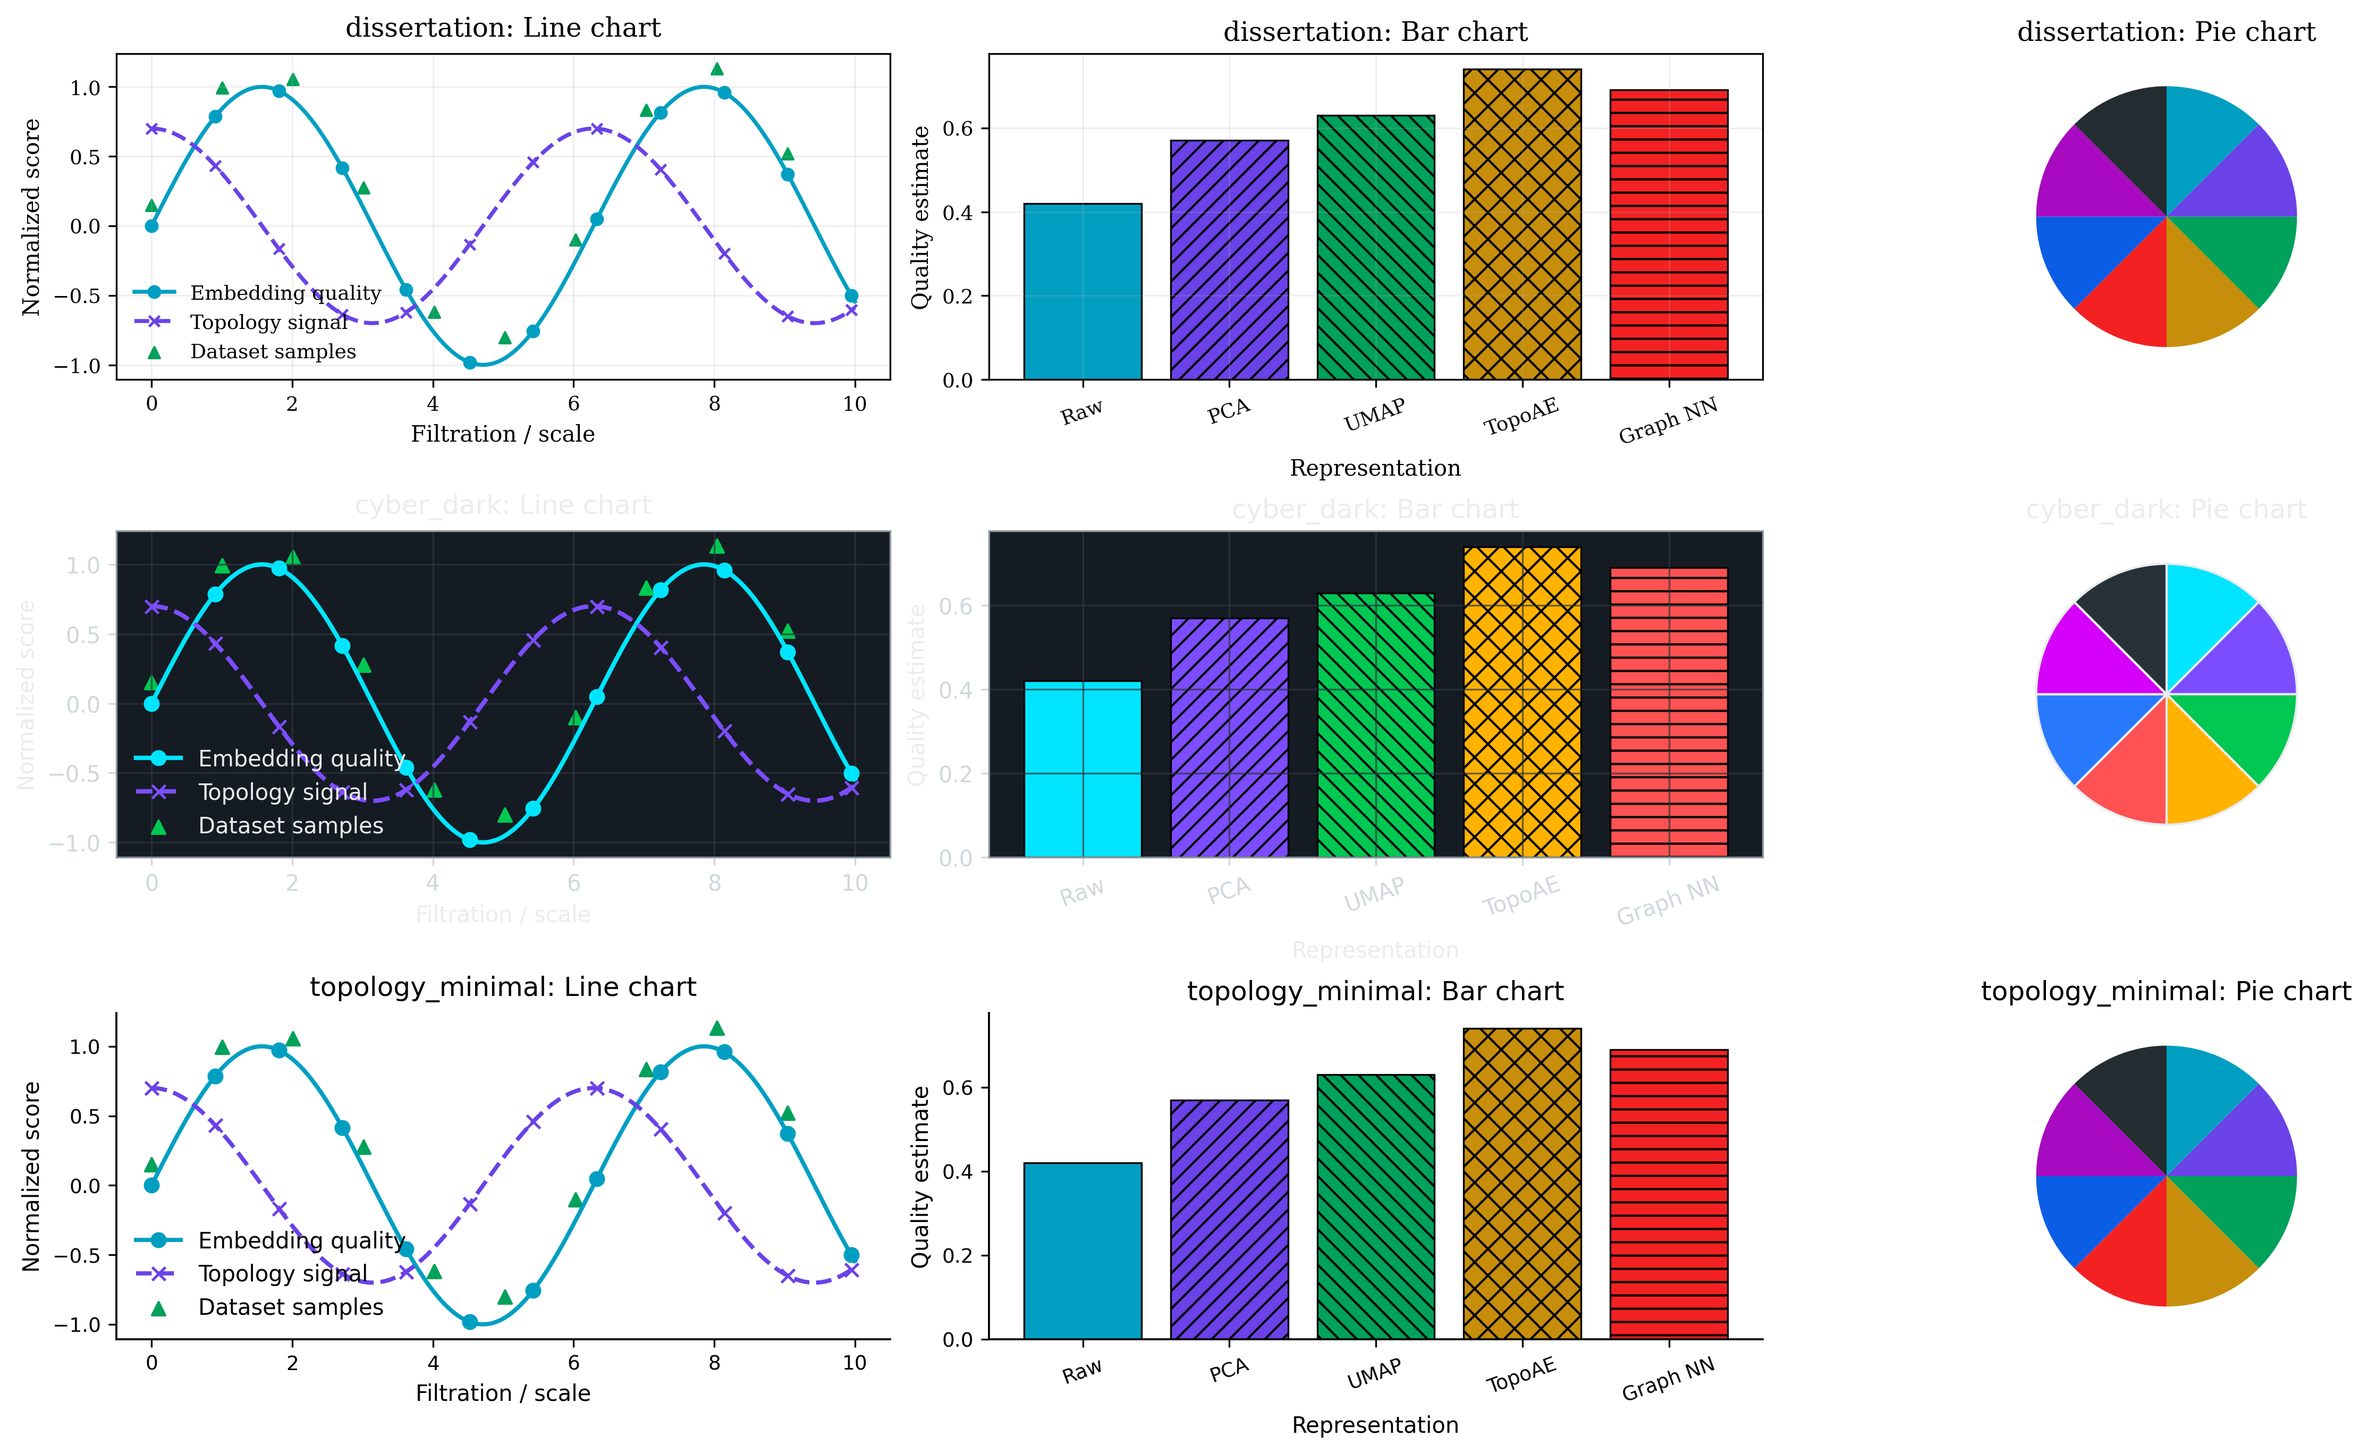
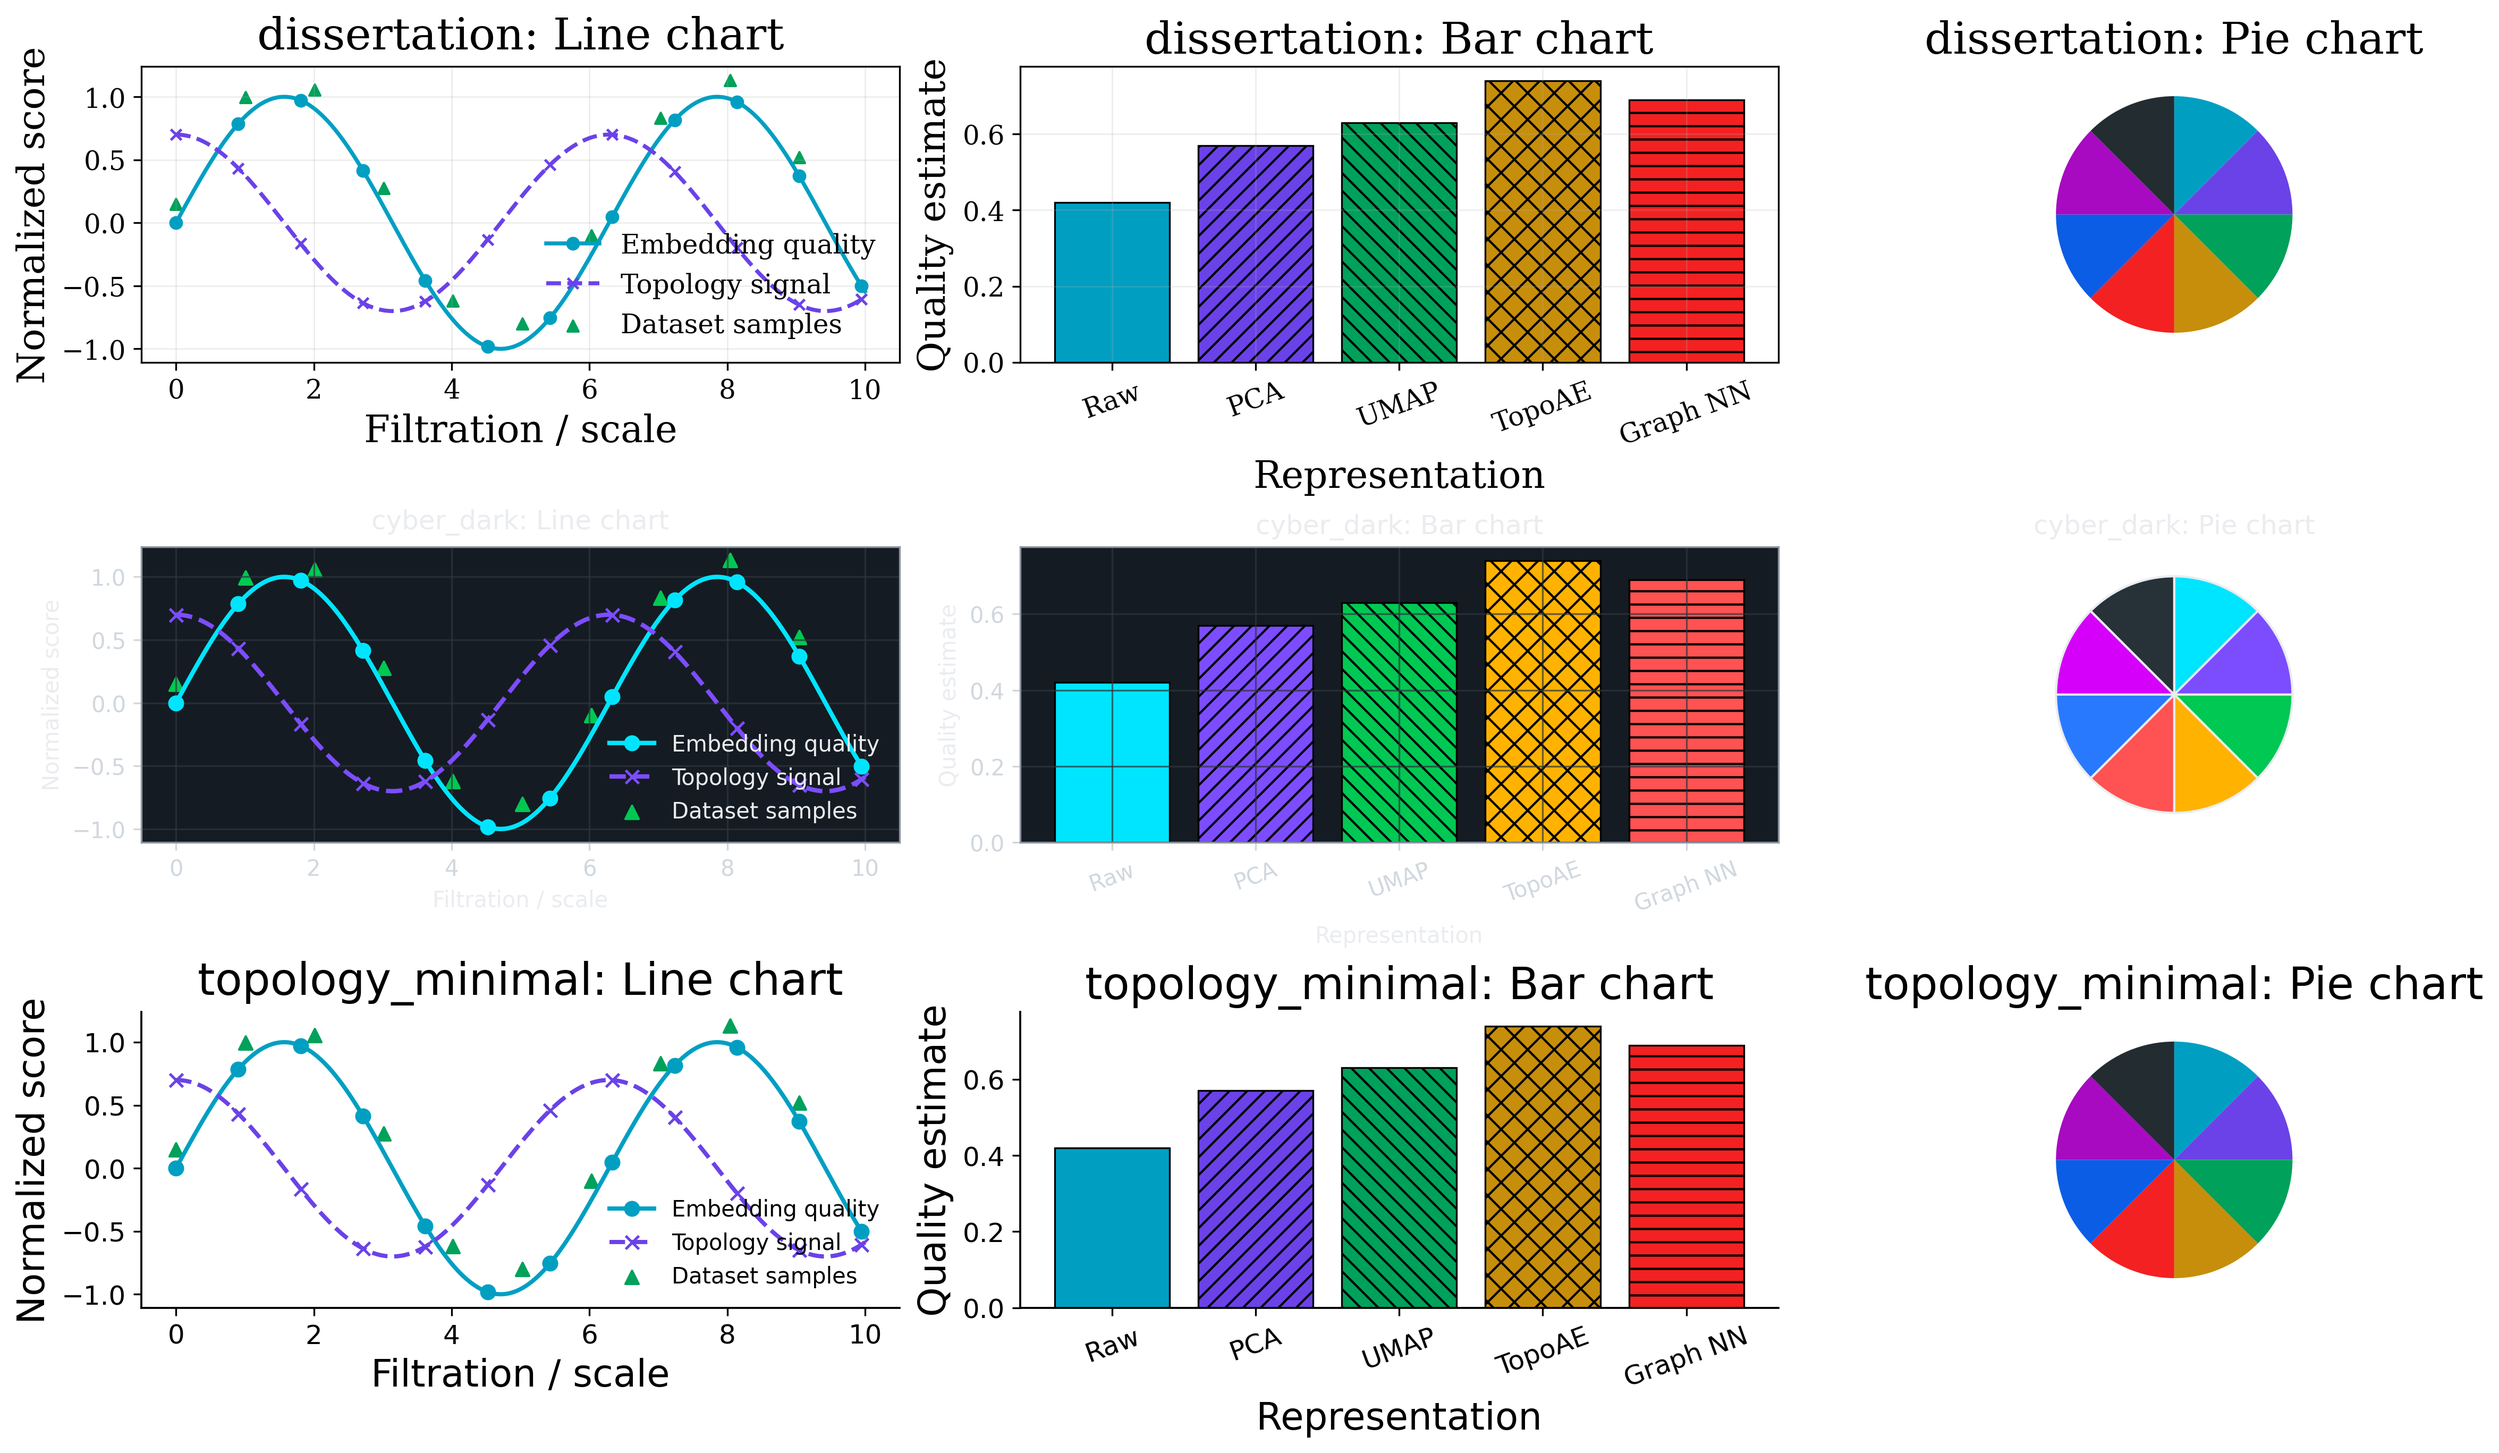
bug

diff --git a/src/project_utils/tests/theme_test.py b/src/project_utils/tests/theme_test.py
@@ -1,3 +1,5 @@
+from __future__ import annotations
+
 import matplotlib as mpl
 import matplotlib.pyplot as plt
 import numpy as np
